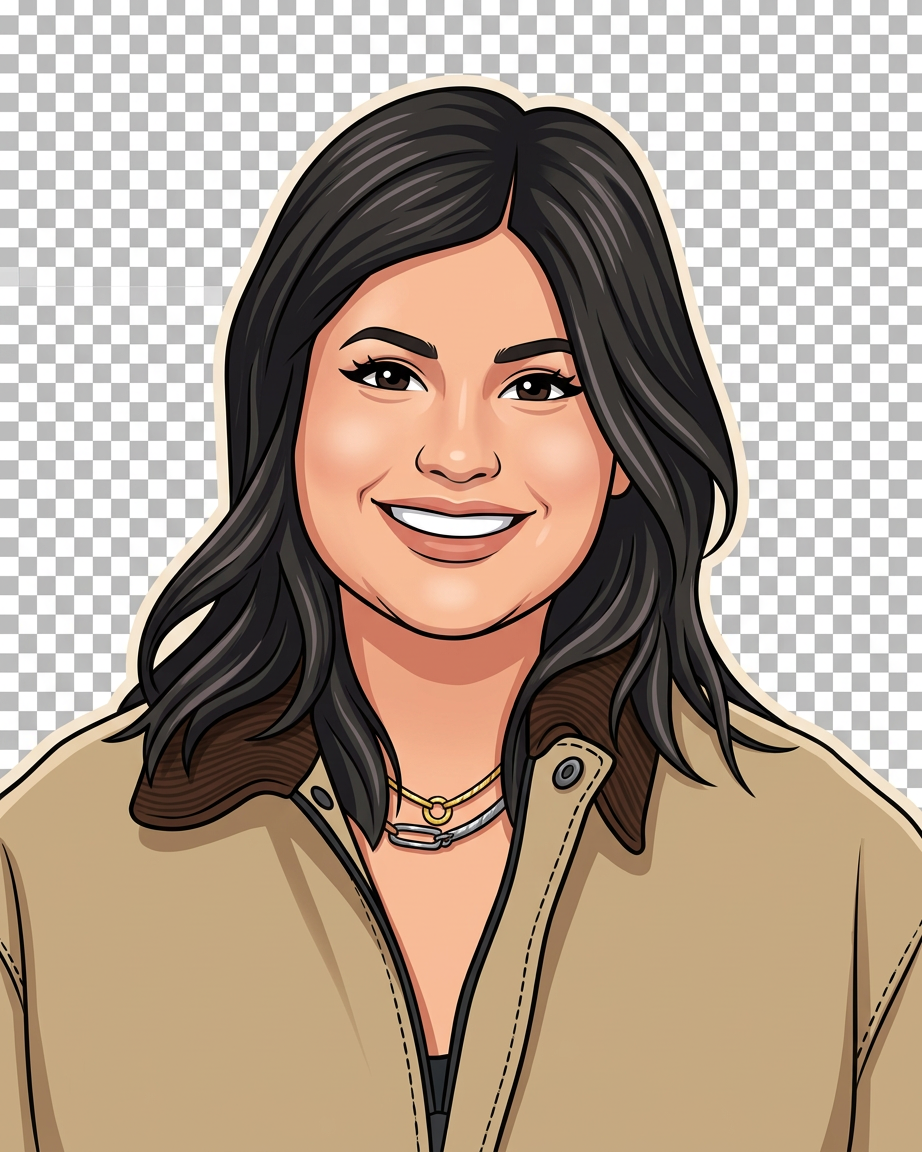
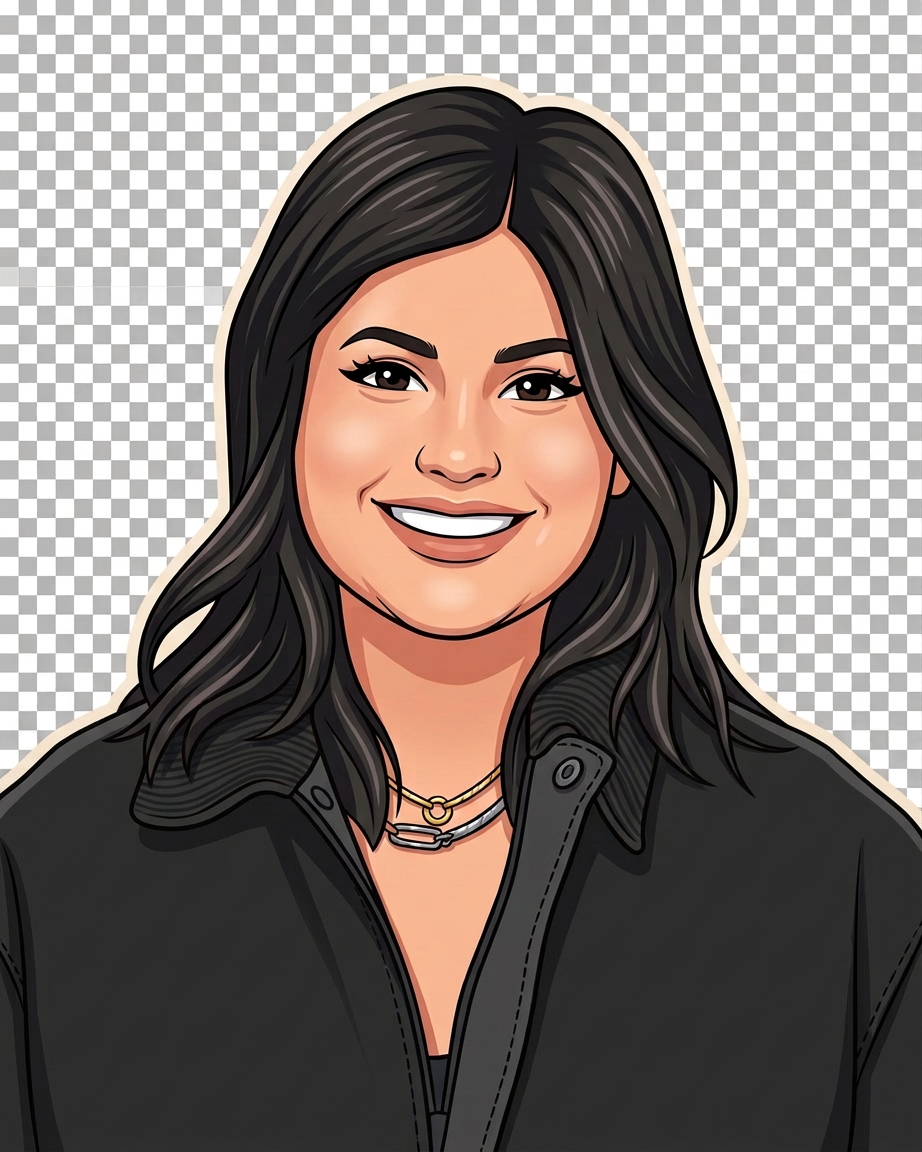
Ms. Dani: new portrait (black chore coat) and matching character: black jacket, shoulder-length black hair

Changed region(s): [[0.0, 0.5938, 1.0, 1.0], [0.4555, 0.6875, 0.4859, 0.7188]]

diff --git a/client/src/npcs.ts b/client/src/npcs.ts
@@ -497,8 +497,9 @@ export const NPC_DANI: NpcDef = {
     noHomeroom: true,
     gender: "feminine",
     look: "fem-suit", // the jacket is her chore coat, the shirt her dark top
-    outfitColor: "#c2a57c", // tan jacket
-    hairStyle: "f-witch", // long and straight, center part
+    outfitColor: "#1e1f24", // black chore coat
+    hairStyle: "f-witch", // shoulder length, center part
+    hairLength: 1.4,
     hairColor: "#1f1a18",
     skinTone: "#F0C6A8",
     glasses: "none",
